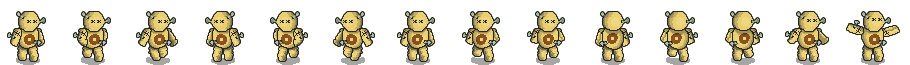
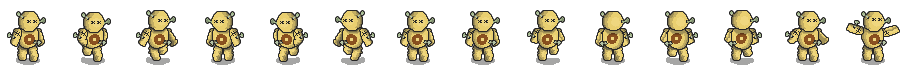
refining doll animation

diff --git a/src/js/voodooDoll.js b/src/js/voodooDoll.js
@@ -6,6 +6,7 @@ Crafty.c('VoodooDoll', {
 	_pop: 0,
     maxSigns: 3,
    _key: Crafty.keys.ENTER,
+    walking:"none",
 	VoodooDoll : function(){
 			this.attr({ x: 16, y: 304, z: 1000 })
 			.keyboard1Controls(3)
@@ -14,33 +15,79 @@ Crafty.c('VoodooDoll', {
 			.animate("walk_left", [[3,0],[4,0],[3,0],[5,0]])
 			.animate("walk_up", [[9,0],[10,0],[9,0],[11,0]])
 			.animate("walk_down", [[6,0],[7,0],[6,0],[8,0]])
+			.animate("summon_sign", [[12,0],[13,0],[13,0],[12,0],[0,0]])
 			//Change direction when 
 			.bind("NewDirection", function (direction) {
-				var rate = ETA.config.frameRate/ETA.config.zombieAnimationRate;
-				if (direction.x < 0) {
-					if (!this.isPlaying("walk_left"))
-						this.stop().animate("walk_left", rate, -1);
-				}
-				if (direction.x > 0) {
-					if (!this.isPlaying("walk_right"))
-						this.stop().animate("walk_right", rate, -1);
-				}
-				if (direction.y < 0) {
-					if (!this.isPlaying("walk_up"))
-						this.stop().animate("walk_up", rate, -1);
-				}
-				if (direction.y > 0) {
-					if (!this.isPlaying("walk_down"))
-						this.stop().animate("walk_down", rate, -1);
-				}
-				if(!direction.x && !direction.y) {
-					this.stop();
+				var rate = ETA.config.frameRate/ETA.config.dollAnimationRate;
+				if (!this.isPlaying("summon_sign"))
+				{
+					if (direction.x < 0) {
+						if (!this.isPlaying("walk_left"))
+						{
+							this.stop().animate("walk_left", rate, -1);
+							this.walking = "left"
+						}
+					}
+					if (direction.x > 0) {
+						if (!this.isPlaying("walk_right"))
+						{
+							this.stop().animate("walk_right", rate, -1);
+							this.walking = "right"
+						}
+					}
+					if (direction.y < 0) {
+						if (!this.isPlaying("walk_up"))
+						{
+							this.stop().animate("walk_up", rate, -1);
+							this.walking = "up"
+						}
+					}
+					if (direction.y > 0) {
+						if (!this.isPlaying("walk_down"))
+						{
+							this.stop().animate("walk_down", rate, -1);
+							this.walking = "down"
+						}
+					}
+					if(!direction.x && !direction.y) {
+						this.stop();
+						this.walking = "none"
+					}
 				}
 			})
 			.onHit("gridBounds", function () {
 				//Move unit out of solid tile
 			})
 			.bind('Moved', function(from) {
+				if (this.isPlaying("summon_sign"))
+				{
+					this.attr({x: from.x, y:from.y});
+					return;
+				}
+				if (this.walking != "none")
+				{
+					var rate = ETA.config.frameRate/ETA.config.dollAnimationRate;
+					if (this.walking == "left" && !this.isPlaying("walk_left"))
+					{
+						this.stop().animate("walk_left", rate, -1);
+						this.walking = "left"
+					}
+					if (this.walking == "right" && !this.isPlaying("walk_right"))
+					{
+						this.stop().animate("walk_right", rate, -1);
+						this.walking = "right"
+					}
+					if (this.walking == "up" && !this.isPlaying("walk_up"))
+					{
+						this.stop().animate("walk_up", rate, -1);
+						this.walking = "up"
+					}
+					if (this.walking == "down" && !this.isPlaying("walk_down"))
+					{
+						this.stop().animate("walk_down", rate, -1);
+						this.walking = "down"
+					}
+				}
 				var collide = this.hit('gridBounds');
 				if(collide){
 					var collideLength = collide.length;
@@ -57,6 +104,8 @@ Crafty.c('VoodooDoll', {
 					return;
 				}
 				if(this._pop < this.maxSigns) {
+					var rate = ETA.config.frameRate/ETA.config.dollAnimationRate;
+					this.stop().animate("summon_sign", rate, 0);
 					Crafty.e("Sign, signSprite").attr({ x: this.x,y: this.y, z: 100, w:50, h:50 })			
 					this._pop++;
 				}

diff --git a/src/js/config.js b/src/js/config.js
@@ -6,7 +6,7 @@ ETA.config = {
 	//keyset:"wasd",
 	frameRate: 60,
 	zombieAnimationRate:5,
-	dollAnimationRate:5,
+	dollAnimationRate:10,
 	stageWidth: 1000,
 	stageHeight: 580,
 	nbTileWidth: 20,
